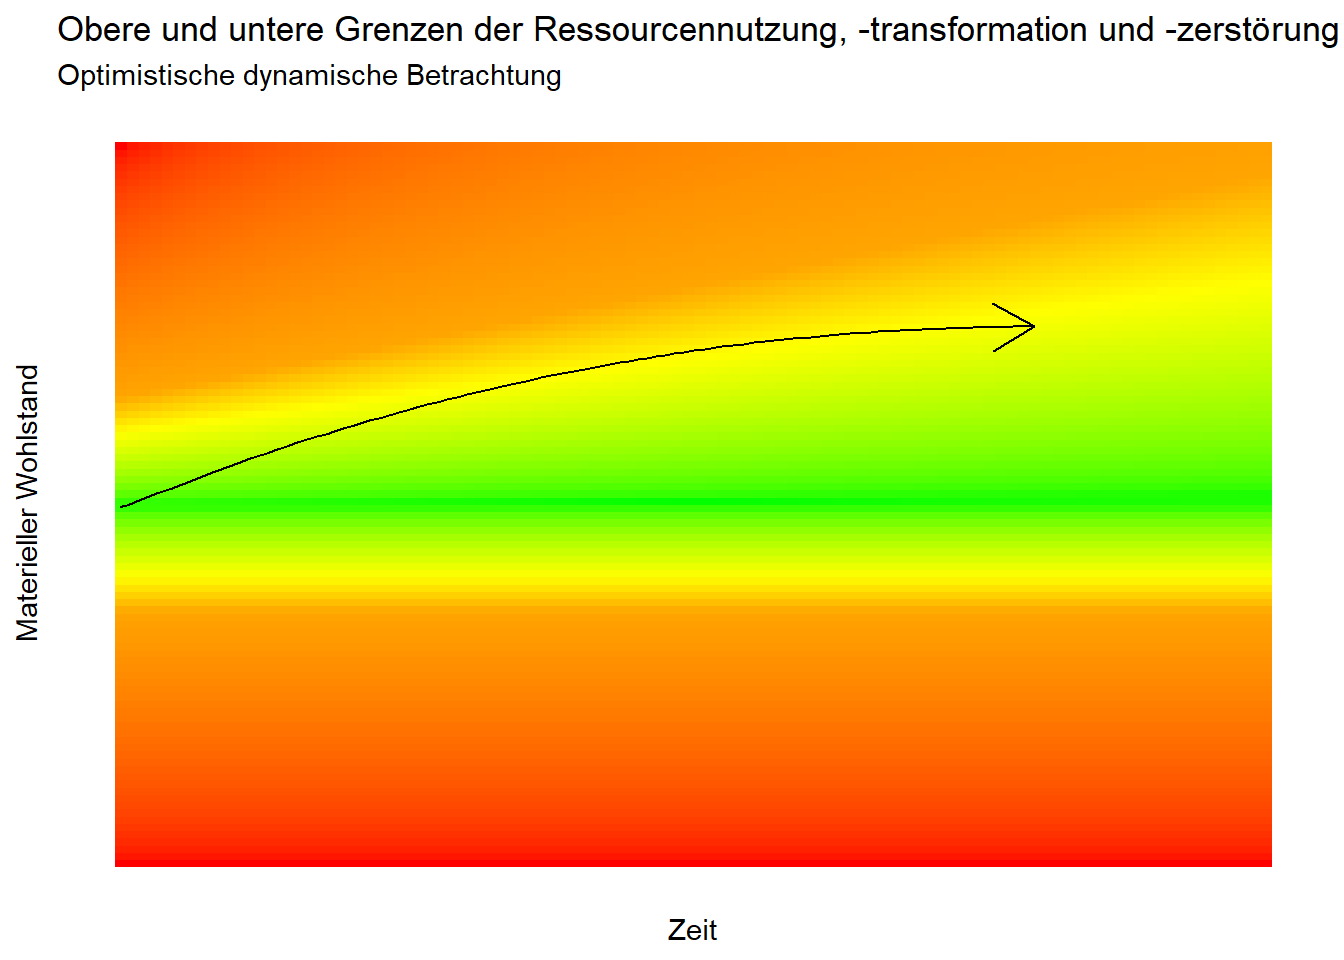
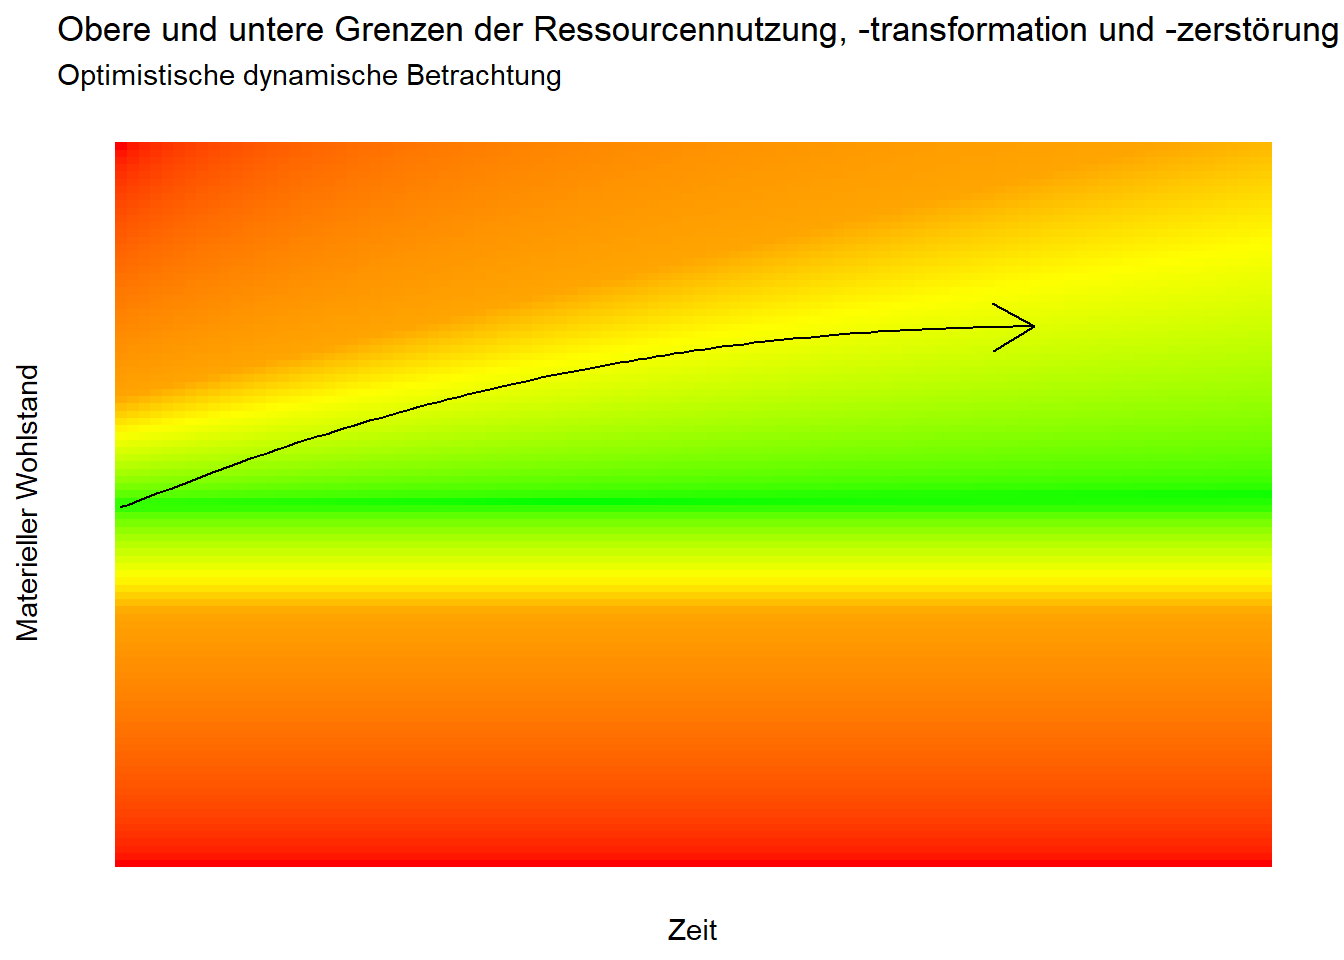
Donut

Changed region(s): [[0.3438, 0.1562, 0.9688, 0.3438]]

diff --git a/docs/donut.html b/docs/donut.html
@@ -407,7 +407,7 @@ pre > code.sourceCode > span > a:first-child::before { text-decoration: underlin
 <span id="cb3-7"><a href="#cb3-7" aria-hidden="true" tabindex="-1"></a></span>
 <span id="cb3-8"><a href="#cb3-8" aria-hidden="true" tabindex="-1"></a><span class="co"># Parameter für den Trichter</span></span>
 <span id="cb3-9"><a href="#cb3-9" aria-hidden="true" tabindex="-1"></a>w0 <span class="ot">&lt;-</span> <span class="dv">20</span>   <span class="co"># Startbreite bei x=1</span></span>
-<span id="cb3-10"><a href="#cb3-10" aria-hidden="true" tabindex="-1"></a>w1 <span class="ot">&lt;-</span> <span class="dv">60</span>   <span class="co"># Endbreite bei x=100</span></span>
+<span id="cb3-10"><a href="#cb3-10" aria-hidden="true" tabindex="-1"></a>w1 <span class="ot">&lt;-</span> <span class="dv">70</span>   <span class="co"># Endbreite bei x=100</span></span>
 <span id="cb3-11"><a href="#cb3-11" aria-hidden="true" tabindex="-1"></a>mitte <span class="ot">&lt;-</span> <span class="dv">50</span> <span class="co"># Zentrum des Trichters</span></span>
 <span id="cb3-12"><a href="#cb3-12" aria-hidden="true" tabindex="-1"></a></span>
 <span id="cb3-13"><a href="#cb3-13" aria-hidden="true" tabindex="-1"></a><span class="co"># Neue Variable: Normalisierter Abstand vom Zentrum (abhängig von X)</span></span>
